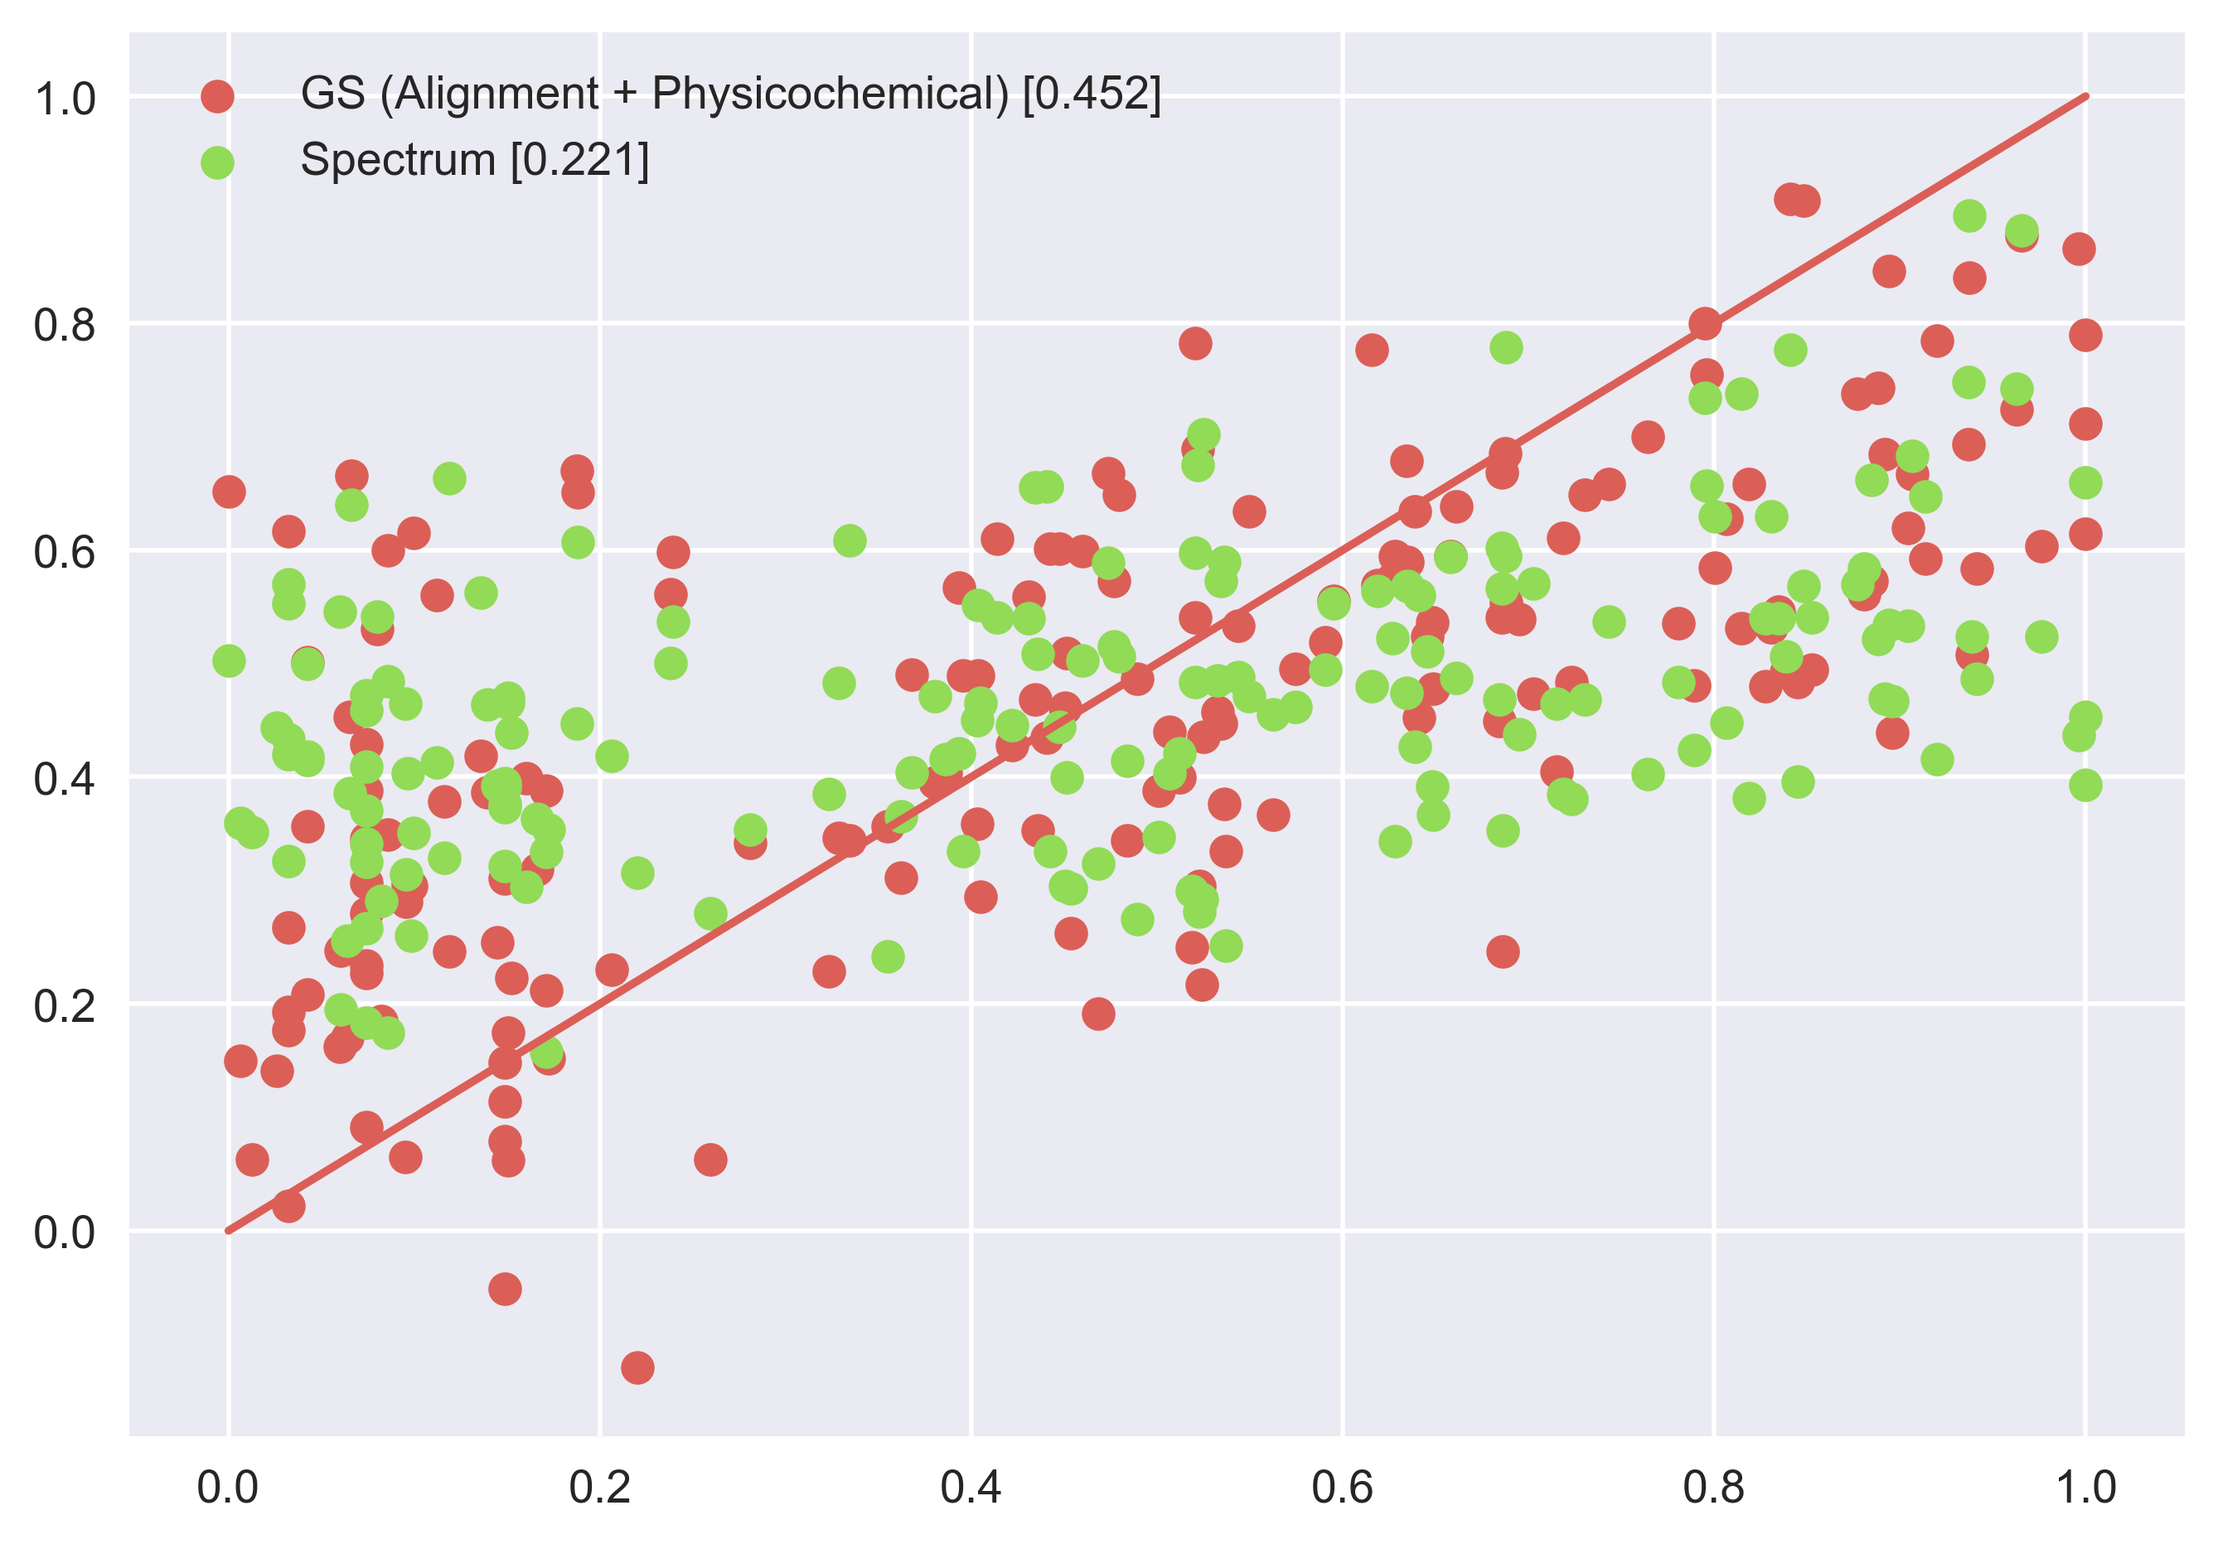
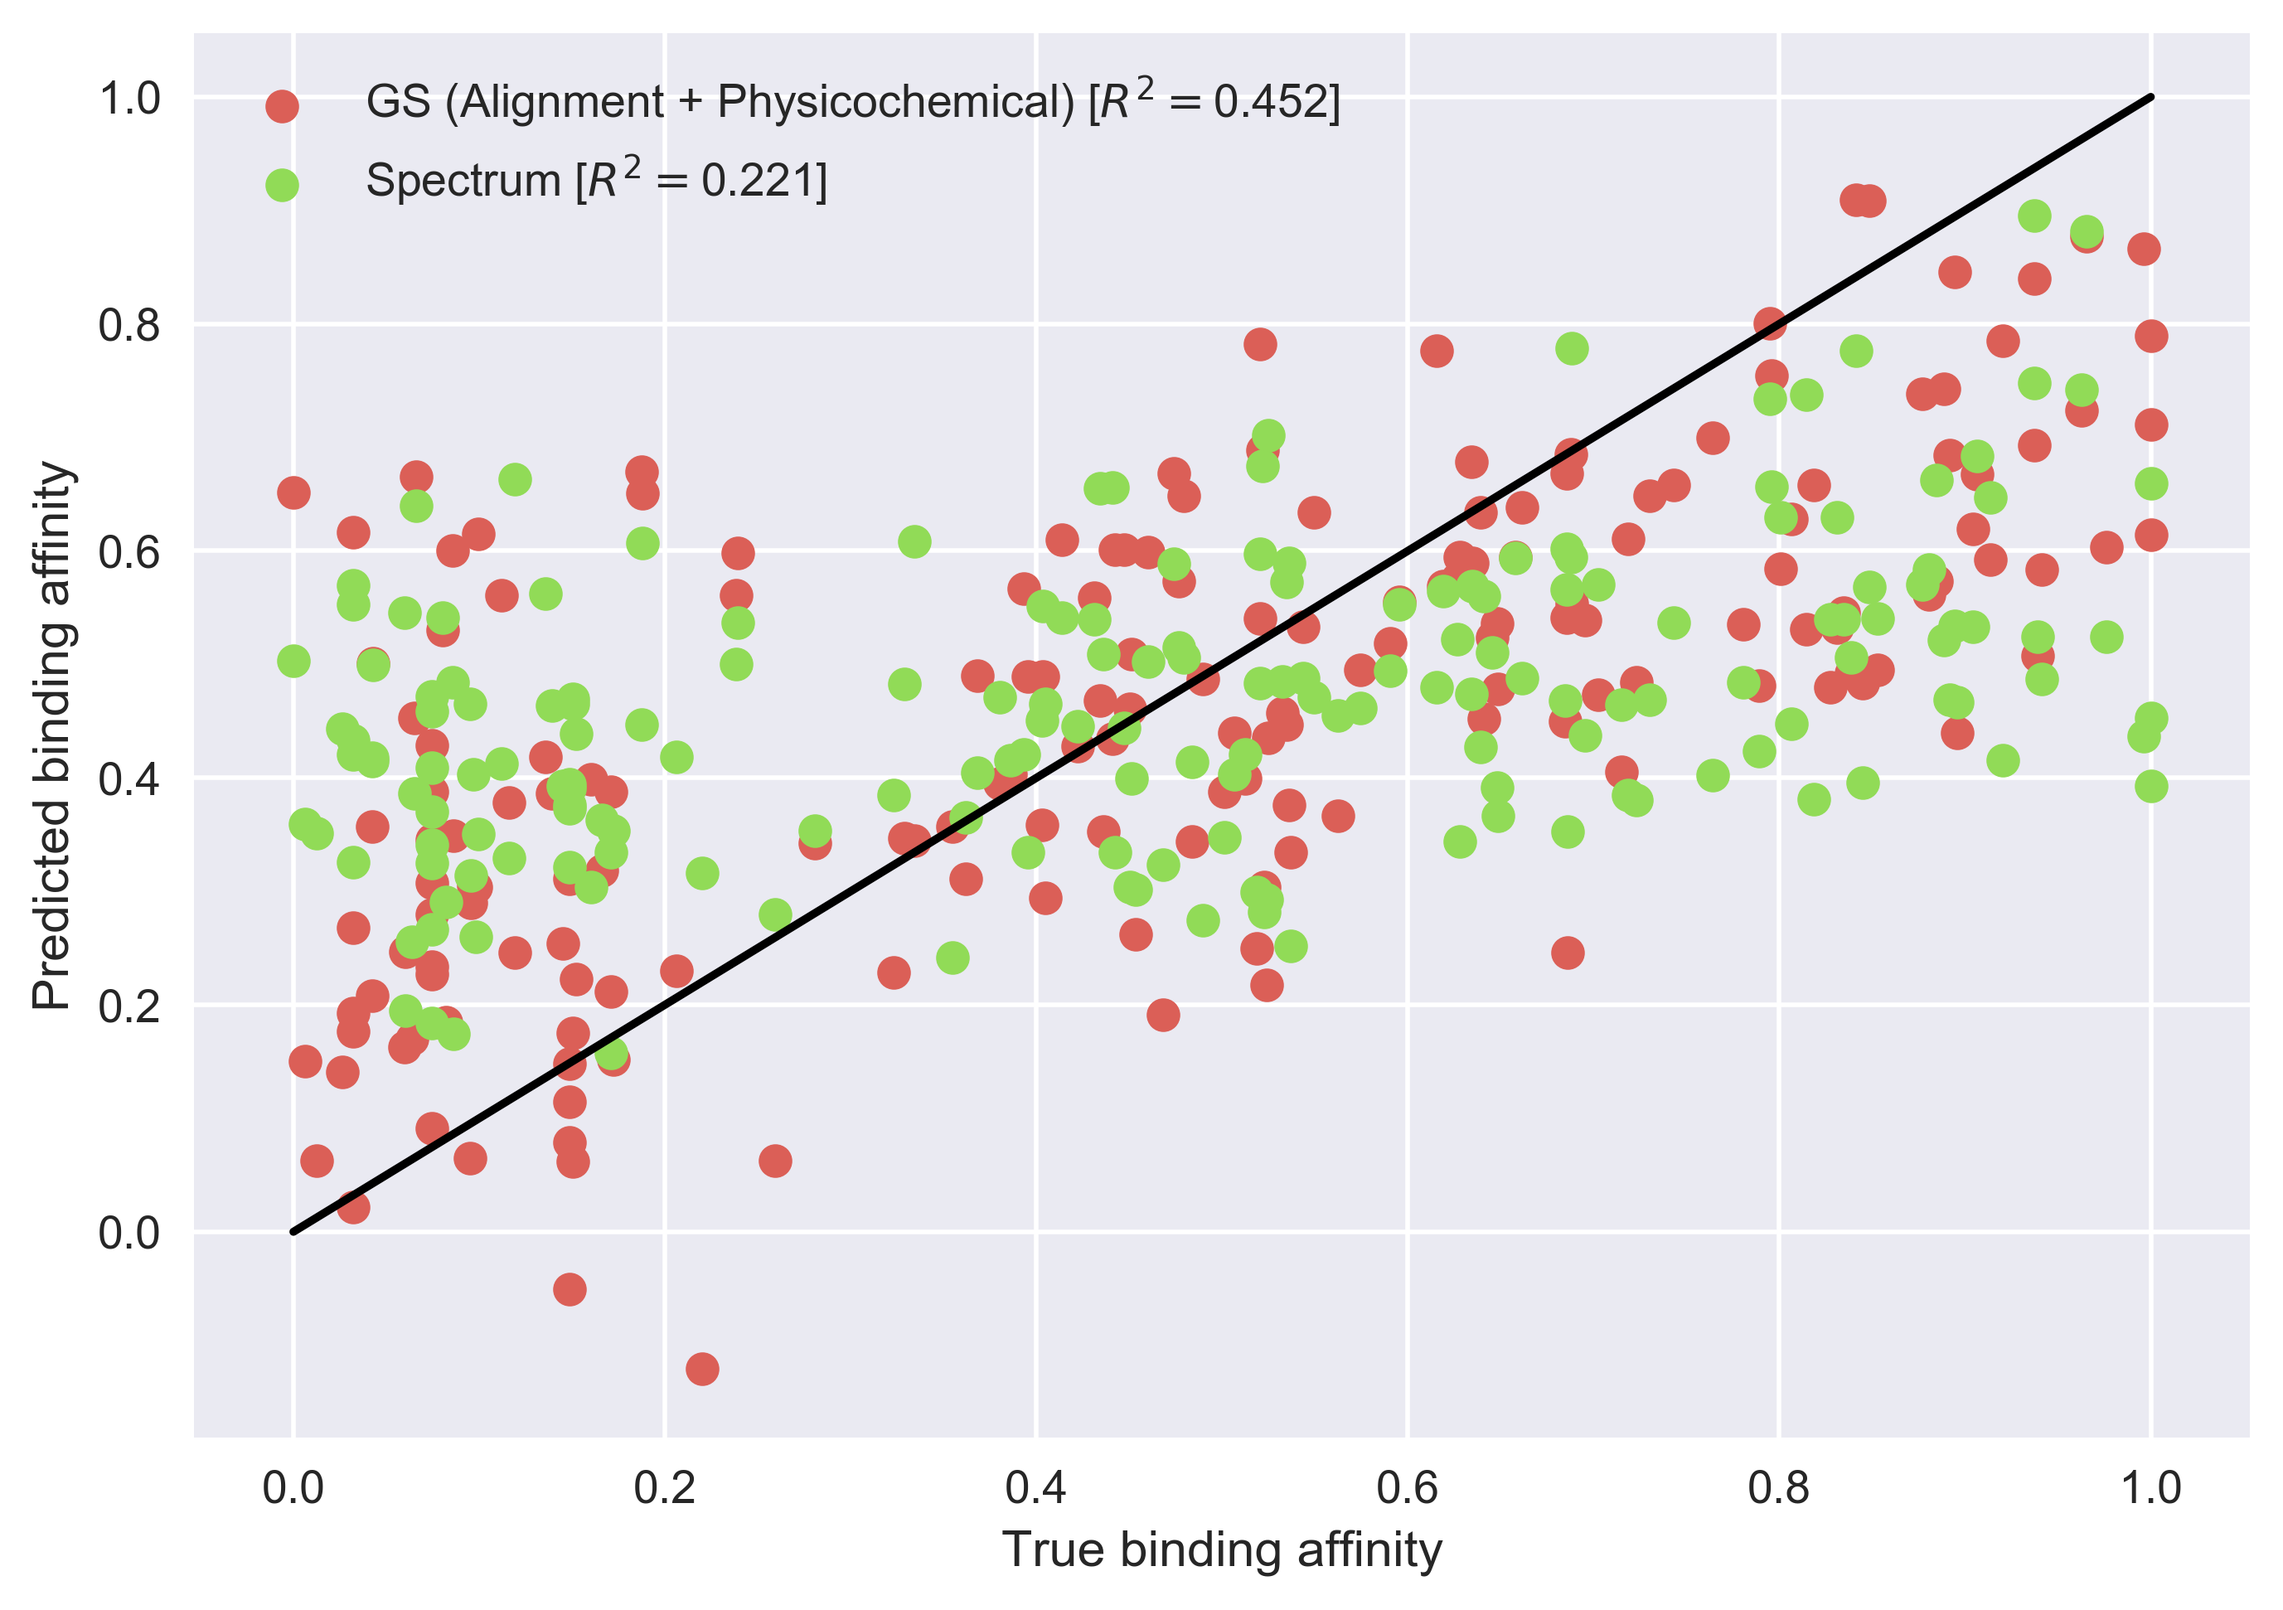
update

diff --git a/exercises/code/applications.peptide.binding.py b/exercises/code/applications.peptide.binding.py
@@ -1,10 +1,7 @@
 #!/usr/bin/env python
 #-*- coding:utf-8 -*-
 """
-
-TODO:
-    * Code cleanup
-    * Memoize kernel matrices to speed up CV (over C values)
+Trains Generic String and Spectrum kernel Support Vector Regressions for peptide protein binding affinity prediction
 
 """
 import h5py as h
@@ -158,11 +155,10 @@ def cross_validation_spectrum_kernel(seq, is_train, folds):
 
 
 for ds in os.listdir(data_path):
-    print ds
     if ".dat" not in ds:
         continue
 
-    if "DRB1_0701" not in ds:
+    if "DRB1_0701" not in ds:  # Limit to this allele for the tutorial
         continue
 
     random_state = np.random.RandomState(42)
@@ -199,7 +195,7 @@ for ds in os.listdir(data_path):
     plt.bar([1 + width], [best_result_aa_only["estimator"].score(best_result_aa_only["K"]["test"], y_test)], width, label="GS (Physicochemical)")
     plt.bar([1 + 2 * width], [best_result_pos_only["estimator"].score(best_result_pos_only["K"]["test"], y_test)], width, label="GS (Alignment)")
     plt.xlabel("Method")
-    plt.ylabel("Coefficient of determination ($r^2$)")
+    plt.ylabel("Coefficient of determination ($R^2$)")
     plt.gca().tick_params(labelbottom='off')
     plt.legend()
     plt.savefig("gs_variants_low_res.png", dpi=100, bbox_inches="tight")
@@ -209,10 +205,10 @@ for ds in os.listdir(data_path):
     # Figure 3: Comparison of the GS kernel and the Spectrum kernel
     plt.clf()
     plt.scatter(y_test, best_result_aa_pos["estimator"].predict(best_result_aa_pos["K"]["test"]),
-                label="GS (Alignment + Physicochemical) [{0:.3f}]".format(
+                label="GS (Alignment + Physicochemical) [$R^2=${0:.3f}]".format(
                     best_result_aa_pos["estimator"].score(best_result_aa_pos["K"]["test"], y_test)))
     plt.scatter(y_test, best_result_spectrum["estimator"].predict(best_result_spectrum["K"]["test"]),
-                label="Spectrum [{0:.3f}]".format(
+                label="Spectrum [$R^2=${0:.3f}]".format(
                     best_result_spectrum["estimator"].score(best_result_spectrum["K"]["test"], y_test)))
     plt.plot([0, y_test.max()], [0, y_test.max()], color="black")
     plt.xlabel("True binding affinity")

diff --git a/sections/application_peptides/README.md b/sections/application_peptides/README.md
@@ -73,8 +73,3 @@ The generic string kernel yields more accurate results. However, there is still 
 Giguère, S., Marchand, M., Laviolette, F., Drouin, A., & Corbeil, J. (2013). Learning a peptide-protein binding affinity predictor with kernel ridge regression. BMC bioinformatics, 14(1), 82. [[link]](https://bmcbioinformatics.biomedcentral.com/articles/10.1186/1471-2105-14-82)
 
 Leslie, C. S., Eskin, E., & Noble, W. S. (2002, January). The spectrum kernel: A string kernel for SVM protein classification. In Pacific symposium on biocomputing (Vol. 7, No. 7, pp. 566-575). [[link]](http://psb.stanford.edu/psb-online/proceedings/psb02/leslie.pdf)
-
-## TODO
-
-* gs kernel installation script
-* install cython in deps
